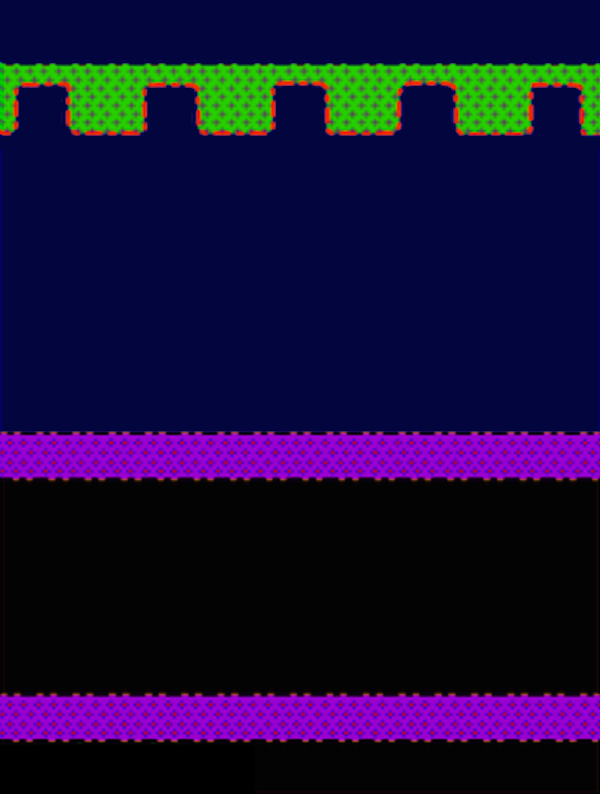
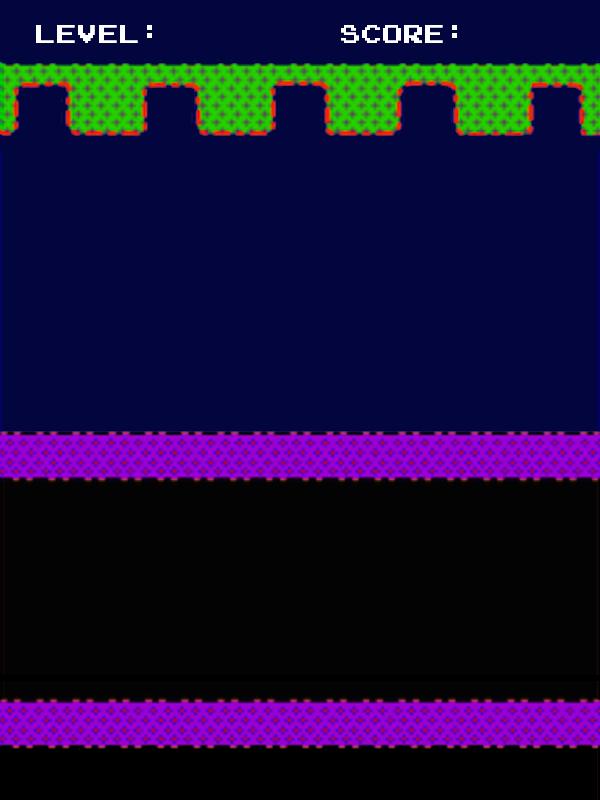
Updated Level Display

diff --git a/src/main/java/frogger/models/levels/Scoreboard.java b/src/main/java/frogger/models/levels/Scoreboard.java
@@ -10,10 +10,10 @@ public class Scoreboard {
 		
 		scoreDigit =  new Digit[4];
 		
-		scoreDigit[0] = new Digit(0, 30, 360, 25);
-		scoreDigit[1] = new Digit(0, 30, 330, 25);
-		scoreDigit[2] = new Digit(0, 30, 300, 25);
-		scoreDigit[3] = new Digit(0, 30, 270, 25);
+		scoreDigit[0] = new Digit(0, 30, 550, 17);
+		scoreDigit[1] = new Digit(0, 30, 520, 17);
+		scoreDigit[2] = new Digit(0, 30, 490, 17);
+		scoreDigit[3] = new Digit(0, 30, 460, 17);
 		
 		for(int i = 0;i < scoreDigit.length; i++) {
 			

diff --git a/src/main/java/frogger/models/levels/Level2.java b/src/main/java/frogger/models/levels/Level2.java
@@ -6,6 +6,8 @@ public class Level2 extends Level {
 	
 	public Level2() {
 		
+		add(new Digit(2, 30, 155, 17));
+		
 		add(new ShortLog(0, 166, 0.75));
 		add(new ShortLog(220, 166, 0.75));
 		add(new ShortLog(440, 166, 0.75));

diff --git a/src/main/java/frogger/models/levels/Level5.java b/src/main/java/frogger/models/levels/Level5.java
@@ -6,6 +6,8 @@ public class Level5 extends Level {
 
 	public Level5() {
 		
+		add(new Digit(5, 30, 155, 17));
+		
 		add(new ShortLog(0, 166, -0.5));
 		add(new ShortLog(250, 166, -0.5));
 		add(new ShortLog(500, 166, -0.5));

diff --git a/src/main/java/frogger/models/levels/Level3.java b/src/main/java/frogger/models/levels/Level3.java
@@ -6,6 +6,8 @@ public class Level3 extends Level {
 	
 	public Level3() {
 		
+		add(new Digit(3, 30, 155, 17));
+		
 		add(new Crocodile(0, 166, 3));
 		
 		add(new Crocodile(440, 217, -2.5));

diff --git a/src/main/java/frogger/models/levels/Level1.java b/src/main/java/frogger/models/levels/Level1.java
@@ -6,6 +6,8 @@ public class Level1 extends Level {
 	
 	public Level1() {
 		
+		add(new Digit(1, 30, 155, 17));
+		
 		add(new LongLog(0, 166, 0.75));
 		add(new LongLog(450, 166, 0.75));
 		

diff --git a/src/main/java/frogger/models/levels/Level4.java b/src/main/java/frogger/models/levels/Level4.java
@@ -6,6 +6,8 @@ public class Level4 extends Level {
 
 	public Level4() {
 		
+		add(new Digit(4, 30, 155, 17));
+		
 		add(new Turtle(100, 166, 0.5));
 		add(new Turtle(500, 166, 0.5));
 		
